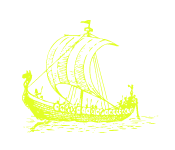
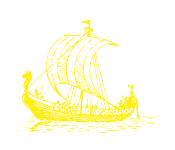
Switch accent color to the business card's yellow
Replace the neon lime-yellow (#e2ff26) with #ffee14, the true yellow
from the Skald Group business card/logo, across the CSS accent color
and the yellow-tinted assets (favicon, hero longship) so the site and
the brand mark match.

Claude-Session: https://claude.ai/code/session_01QkEUVX4tQFetzwVncU8HcN

diff --git a/index.html b/index.html
@@ -20,8 +20,8 @@
     --panel-line: #262626;
     --white: #f5f5f2;
     --dim: #9a9a94;
-    --yellow: #e2ff26;
-    --yellow-dim: #b6cc1e;
+    --yellow: #ffee14;
+    --yellow-dim: #ccbe10;
   }
 
   *{ box-sizing: border-box; }
@@ -110,8 +110,8 @@
     position: absolute;
     inset: -20% -10%;
     background:
-      radial-gradient(circle at 15% 20%, rgba(226,255,38,0.10), transparent 45%),
-      radial-gradient(circle at 85% 75%, rgba(226,255,38,0.06), transparent 40%);
+      radial-gradient(circle at 15% 20%, rgba(255,238,20,0.10), transparent 45%),
+      radial-gradient(circle at 85% 75%, rgba(255,238,20,0.06), transparent 40%);
     pointer-events: none;
   }
   .eyebrow{
@@ -158,7 +158,7 @@
     color: var(--black);
   }
   .btn-primary:hover{
-    box-shadow: 0 0 24px rgba(226,255,38,0.45);
+    box-shadow: 0 0 24px rgba(255,238,20,0.45);
     transform: translateY(-1px);
   }
   .btn-ghost{
@@ -173,8 +173,8 @@
     border: 1px solid var(--panel-line);
     border-radius: 8px;
     background:
-      linear-gradient(135deg, rgba(226,255,38,0.08), transparent 60%),
-      repeating-linear-gradient(45deg, rgba(226,255,38,0.05) 0 2px, transparent 2px 26px),
+      linear-gradient(135deg, rgba(255,238,20,0.08), transparent 60%),
+      repeating-linear-gradient(45deg, rgba(255,238,20,0.05) 0 2px, transparent 2px 26px),
       var(--panel);
     overflow: hidden;
   }
@@ -186,7 +186,7 @@
     margin: auto;
     object-fit: contain;
     opacity: 0.9;
-    filter: drop-shadow(0 0 22px rgba(226,255,38,0.25));
+    filter: drop-shadow(0 0 22px rgba(255,238,20,0.25));
   }
   .hero-visual .corner{
     position: absolute;
@@ -241,7 +241,7 @@
   .card:hover{
     border-color: var(--yellow);
     transform: translateY(-3px);
-    box-shadow: 0 8px 28px rgba(226,255,38,0.08);
+    box-shadow: 0 8px 28px rgba(255,238,20,0.08);
   }
   .card .tag{
     display: inline-block;
